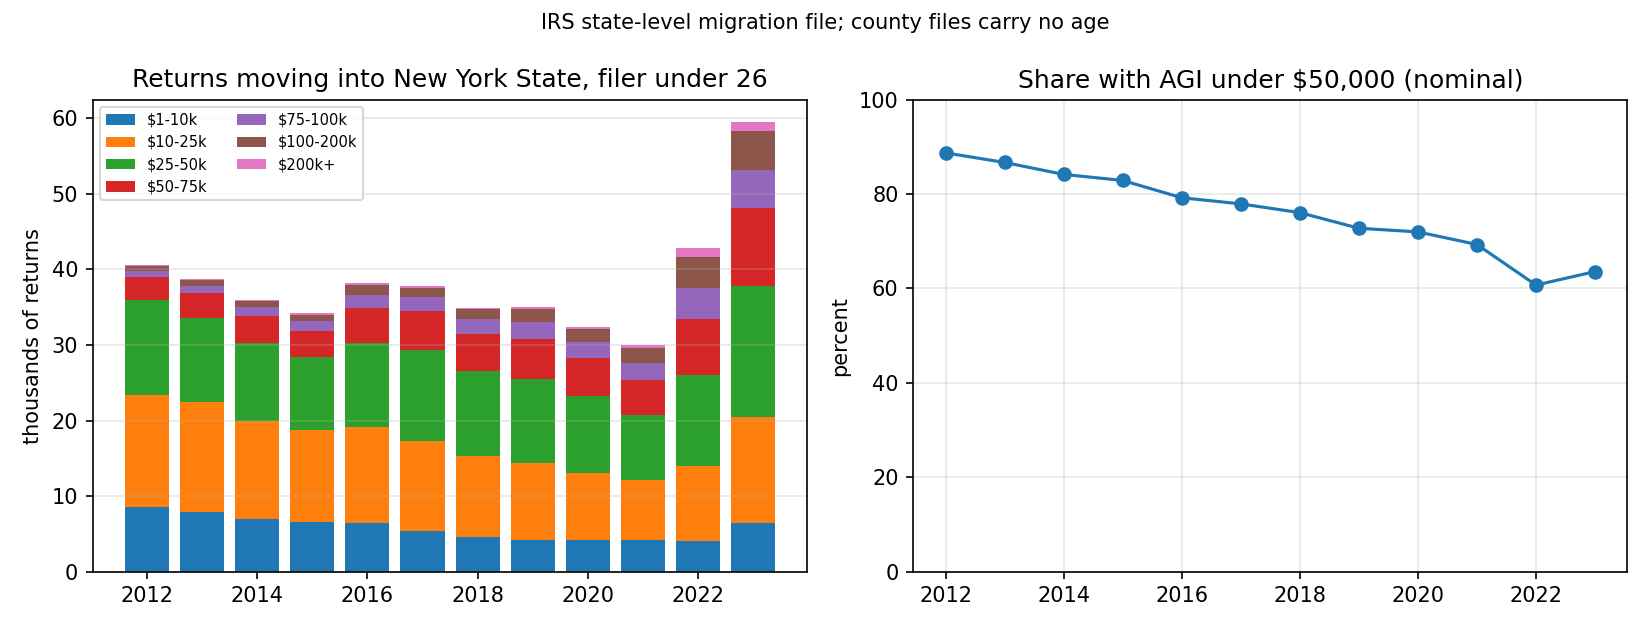
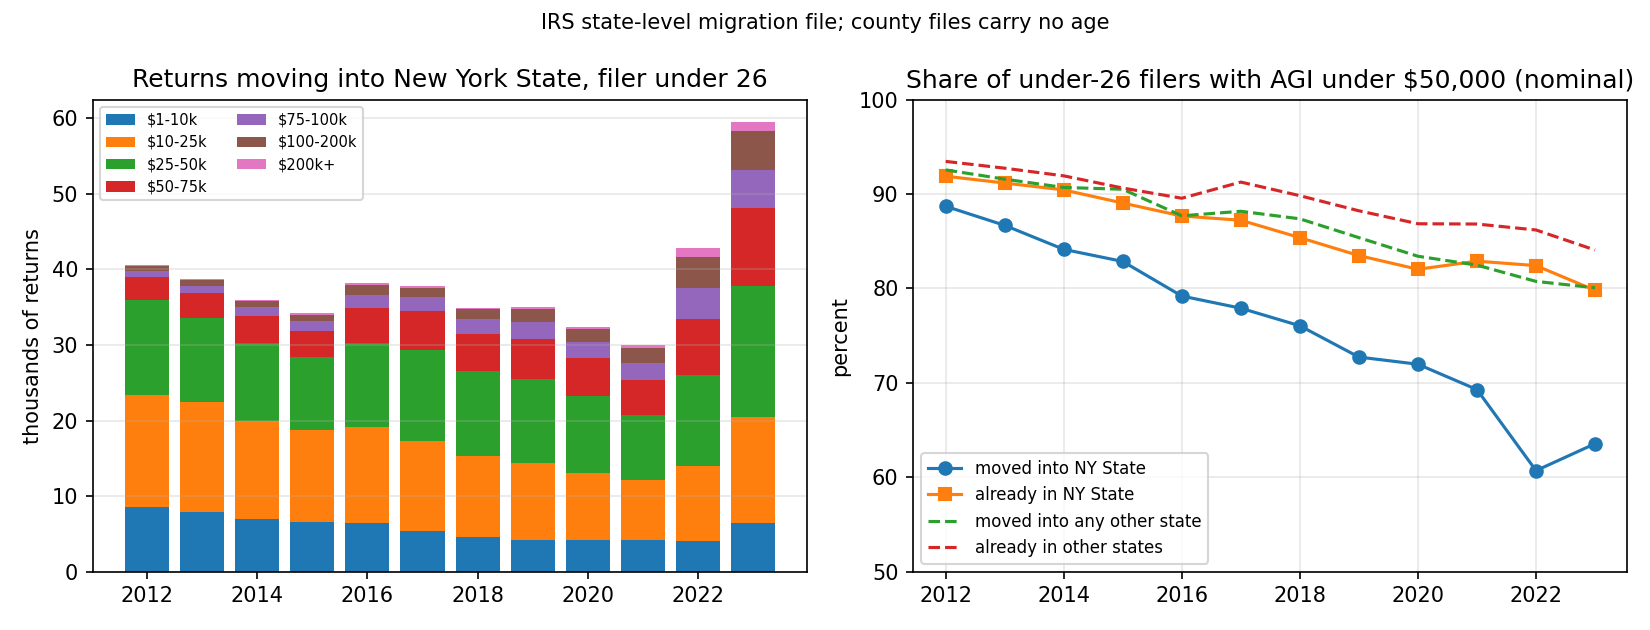
IRS: compare under-26 in-movers' low-AGI share with residents and other states to net out wage growth

diff --git a/src/irs_flows.py b/src/irs_flows.py
@@ -8,6 +8,8 @@ and reported separately.
 Outputs (data/processed/):
   irs_county_inflows.csv           inflows to each borough and to NYC from outside NYC, by year
   irs_ny_state_inflow_age_agi.csv  inflows to New York State by age of filer and AGI band
+  irs_under26_low_agi_shares.csv   share of under-26 filers with AGI under $50k: NY in-movers, NY
+                                   non-movers, in-movers to other states, non-movers elsewhere
 """
 from pathlib import Path
 import pandas as pd
@@ -108,12 +110,41 @@ def ny_state_age_agi() -> pd.DataFrame:
     return pd.DataFrame(rows).sort_values(["age", "agi_stub", "year"])
 
 
+def under26_low_agi_shares() -> pd.DataFrame:
+    low = [1, 2, 3]
+    rows = []
+    for code in YEARS:
+        df = pd.read_csv(RAW / f"{code}inmigall.csv", dtype=str, encoding="latin-1")
+        df["statefips"] = df.statefips.str.strip().str.zfill(2)
+        df["agi_stub"] = df.agi_stub.astype(int)
+        ny, other = df[df.statefips == "36"], df[df.statefips != "36"]
+
+        def share(d: pd.DataFrame, col: str) -> float:
+            return d[d.agi_stub.isin(low)][col].astype(float).sum() / d[d.agi_stub == 0][col].astype(float).sum()
+
+        rows.append(
+            dict(
+                year=year2(code),
+                ny_inmovers=share(ny, "inflow_n1_1"),
+                ny_nonmovers=share(ny, "nonmig_n1_1"),
+                other_states_inmovers=share(other, "inflow_n1_1"),
+                other_states_nonmovers=share(other, "nonmig_n1_1"),
+            )
+        )
+    out = pd.DataFrame(rows)
+    out["ny_gap"] = out.ny_inmovers - out.ny_nonmovers
+    out["other_states_gap"] = out.other_states_inmovers - out.other_states_nonmovers
+    return out.round(4)
+
+
 def main() -> None:
     OUT.mkdir(parents=True, exist_ok=True)
     ci = county_inflows()
     ci.to_csv(OUT / "irs_county_inflows.csv", index=False)
     st = ny_state_age_agi()
     st.to_csv(OUT / "irs_ny_state_inflow_age_agi.csv", index=False)
+    shares = under26_low_agi_shares()
+    shares.to_csv(OUT / "irs_under26_low_agi_shares.csv", index=False)
 
     cols = ["year", "inflow_returns", "inflow_people", "people_per_return", "mean_agi_in_2023usd", "inflow_per_100_resident_returns"]
     for geo in ["Manhattan", "NYC"]:
@@ -123,6 +154,9 @@ def main() -> None:
     young = st[(st.age == "under 26")].pivot(index="year", columns="agi_band", values="inflow_returns")
     print("NY State inflow returns, filer under 26, by AGI band")
     print(young[["all", "$1-10k", "$10-25k", "$25-50k", "$50-75k", "$75-100k", "$100-200k", "$200k+"]].to_string())
+    print()
+    print("Share of under-26 filers with AGI under $50k (percent)")
+    print((100 * shares.set_index("year")).round(1).to_string())
 
 
 if __name__ == "__main__":

diff --git a/src/irs_figures.py b/src/irs_figures.py
@@ -46,9 +46,10 @@ def agi_chart(ci: pd.DataFrame) -> None:
     fig.savefig(FIG / "fig5_irs_mean_agi.png", dpi=150)
 
 
-def young_agi_chart(st: pd.DataFrame) -> None:
+def young_agi_chart(st: pd.DataFrame, shares: pd.DataFrame) -> None:
     y = st[st.age == "under 26"].pivot(index="year", columns="agi_band", values="inflow_returns")
     share = y[LOW].sum(axis=1) / y["all"]
+    s = shares.set_index("year")
     fig, axes = plt.subplots(1, 2, figsize=(11, 4.2))
     ax = axes[0]
     bottom = pd.Series(0, index=y.index, dtype=float)
@@ -60,11 +61,15 @@ def young_agi_chart(st: pd.DataFrame) -> None:
     ax.legend(fontsize=7, ncol=2)
     ax.grid(alpha=0.3, axis="y")
     ax = axes[1]
-    ax.plot(share.index, 100 * share, marker="o")
-    ax.set_title("Share with AGI under $50,000 (nominal)")
+    ax.plot(s.index, 100 * s.ny_inmovers, marker="o", label="moved into NY State")
+    ax.plot(s.index, 100 * s.ny_nonmovers, marker="s", label="already in NY State")
+    ax.plot(s.index, 100 * s.other_states_inmovers, ls="--", label="moved into any other state")
+    ax.plot(s.index, 100 * s.other_states_nonmovers, ls="--", label="already in other states")
+    ax.set_title("Share of under-26 filers with AGI under $50,000 (nominal)")
     ax.set_ylabel("percent")
-    ax.set_ylim(0, 100)
+    ax.set_ylim(50, 100)
     ax.grid(alpha=0.3)
+    ax.legend(fontsize=8)
     fig.suptitle("IRS state-level migration file; county files carry no age", fontsize=10)
     fig.tight_layout()
     fig.savefig(FIG / "fig6_irs_ny_under26_agi.png", dpi=150)
@@ -78,10 +83,12 @@ def main() -> None:
     TAB.mkdir(parents=True, exist_ok=True)
     ci = pd.read_csv(PROC / "irs_county_inflows.csv")
     st = pd.read_csv(PROC / "irs_ny_state_inflow_age_agi.csv")
+    shares = pd.read_csv(PROC / "irs_under26_low_agi_shares.csv")
+    shares.to_csv(TAB / "irs_under26_low_agi_shares.csv", index=False)
     ci[ci.geo.isin(["Manhattan", "NYC"])].to_csv(TAB / "irs_inflows_manhattan_nyc.csv", index=False)
     inflow_chart(ci)
     agi_chart(ci)
-    young_agi_chart(st)
+    young_agi_chart(st, shares)
 
 
 if __name__ == "__main__":

diff --git a/README.md b/README.md
@@ -2,7 +2,7 @@
 
 Working repo for an article testing two claims: that fewer people in their twenties move to New York City (and Manhattan in particular) each year than in the early 2010s, and that the drop is concentrated among lower earners. Nothing here is settled. Two of the three planned sources are done: Census population estimates (net migration by age) and IRS tax-return address changes (gross arrivals by income).
 
-So far: the Census estimates show the young-adult population of Manhattan growing by net migration at least as fast in the 2020s as in the 2010s. The IRS data shows arrivals into Manhattan and the city drifting down from 2012 to 2021, then jumping in 2022 and 2023, and shows the share of young in-movers to New York State with AGI under $50,000 falling from 89% to 64%, a shift that is mostly inflation and can't be read as fewer poor arrivals yet.
+So far: the Census estimates show the young-adult population of Manhattan growing by net migration at least as fast in the 2020s as in the 2010s. The IRS data shows arrivals into Manhattan and the city drifting down from 2012 to 2021, then jumping in 2022 and 2023, and shows the share of under-26 filers moving into New York State with AGI under $50,000 falling from 89% to 72% by 2020, against 92% to 82% for under-26 filers already living in the state. Wage growth explains the second drop; the extra 7 points in the first is arrivals getting richer than the people already here.
 
 ## Source 1: Census population estimates
 
@@ -52,7 +52,7 @@ Full series in `output/tables/irs_inflows_manhattan_nyc.csv` and `output/tables/
 Three things stop this from being an answer:
 
 1. **2022-23 is a different series.** The IRS says that starting with the 2022-23 data it changed how it matches returns across years. Nationally, in-moving returns with a filer under 26 went from 690,000 in 2020-21 to 970,000 in 2022-23, a 40% jump that is not a real migration wave. The 2022-23 column should not be compared with earlier years, and 2021-22 is the first year of post-pandemic return, so the clean comparison is 2011-12 against 2019-20, the last pre-pandemic year: 20% fewer returns arriving in Manhattan, 18% fewer in the city, and 20% fewer under-26 filers arriving in the state.
-2. **The AGI bands are in nominal dollars.** $50,000 in 2012 is about $66,000 in 2023 dollars. A filer earning the same real wage moved up roughly one band over the period, so most of the fall in the under-$50k share is inflation, not a change in who arrives. The IRS does not publish bands by age in constant dollars. The test in real dollars needs ACS PUMS, where income is a continuous number.
+2. **The AGI bands are in nominal dollars.** $50,000 in 2012 is about $66,000 in 2023 dollars, so a filer on the same real wage moved up roughly one band, and the IRS does not publish bands by age in constant dollars. The fix is to compare groups that faced the same inflation. Under-26 filers who already lived in New York went from 92% under $50k in 2012 to 82% in 2020; under-26 filers moving *into* New York went from 89% to 72%. The 10-point fall for residents is wages; the extra 7 points for arrivals is a change in who arrives. The same in-mover-minus-resident gap for every other state widened by only 2.5 points (93% to 83% for arrivals, 94% to 87% for residents), so this is a New York pattern, not a national one. In counts, under-26 arrivals to the state with AGI under $50k fell from 35,900 to 23,300 (35%) while all under-26 arrivals fell 20%. Table in `output/tables/irs_under26_low_agi_shares.csv`.
 3. **Returns are not people, and filers are not the 20-28 cohort.** A return arriving in Manhattan carried 1.31 people in 2012 and 1.17 in 2023 (fig 4, gap between the lines), so the number of people arriving fell a little faster than the number of returns: 22% for Manhattan over 2012-2020 against 20% in returns. The under-26 age group is the filer's age, and dependents on a parent's return don't appear at all.
 
 ![fig6](output/figures/fig6_irs_ny_under26_agi.png)
